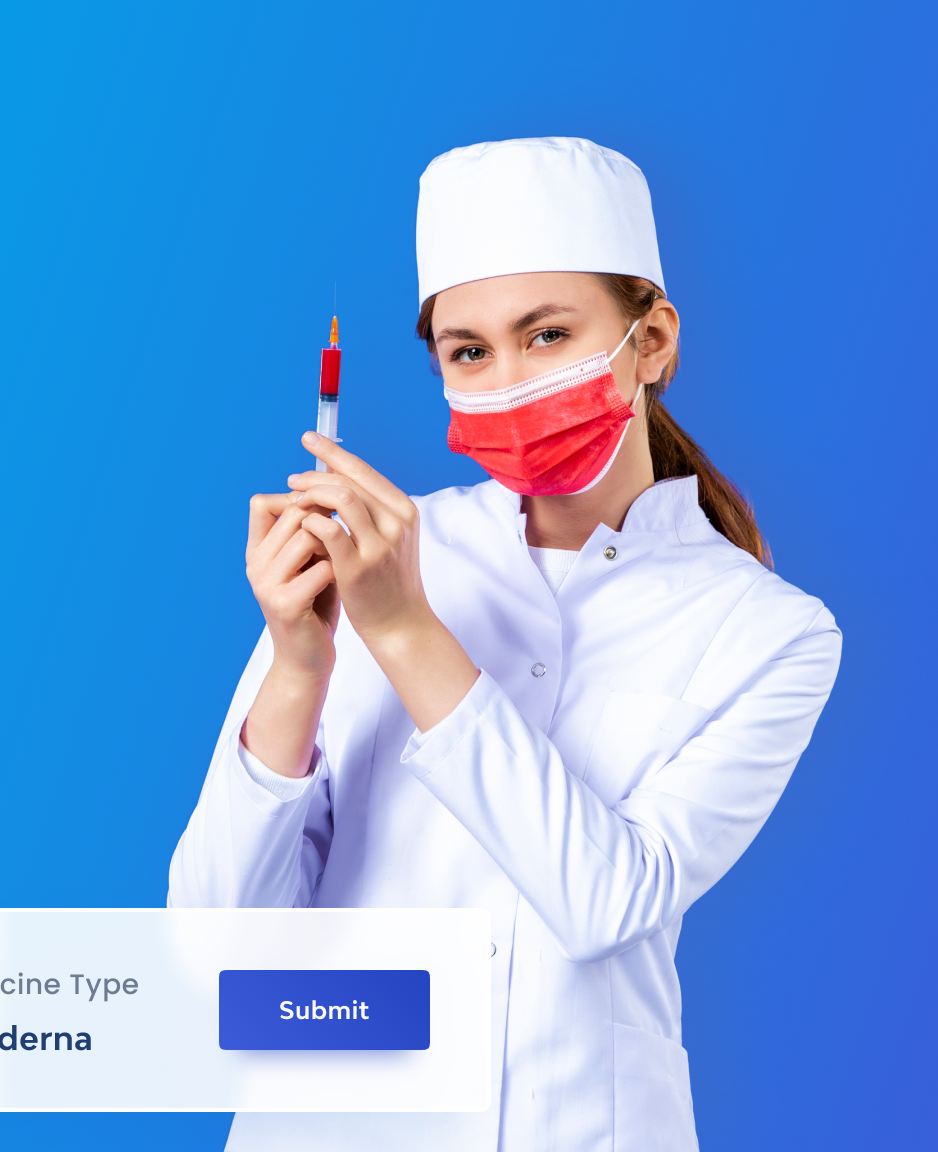
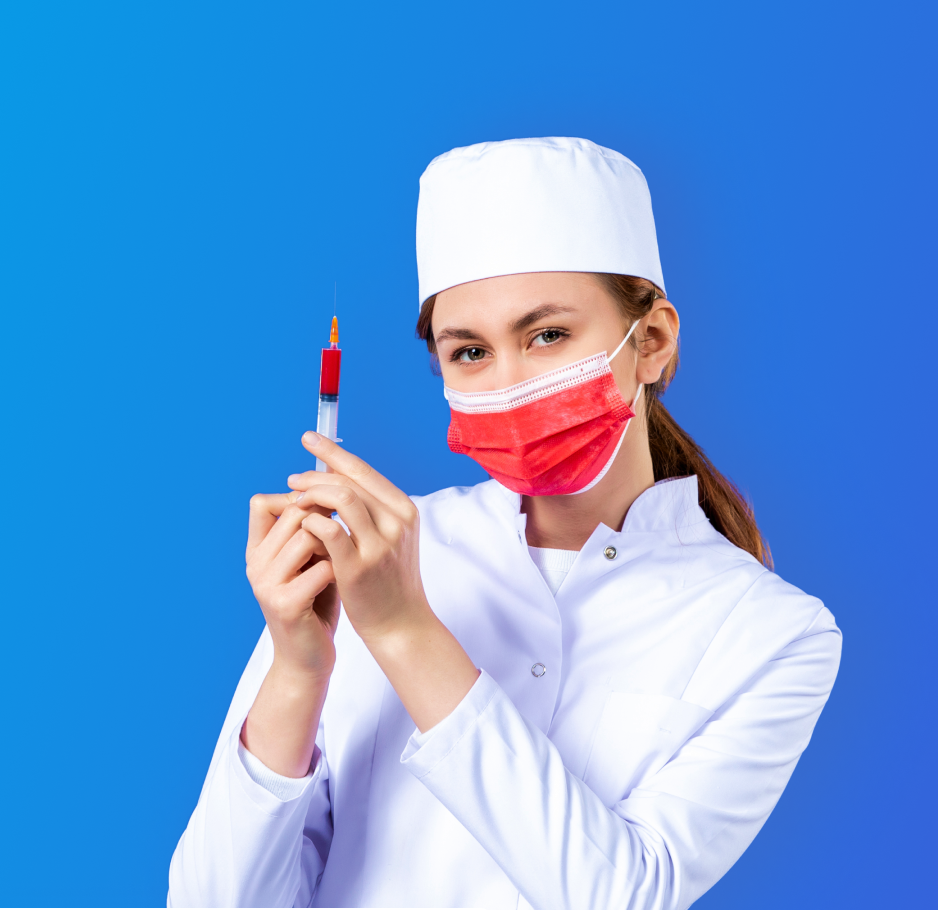
add: location-bar update

diff --git a/semana-3-CSS/index.html b/semana-3-CSS/index.html
@@ -18,7 +18,7 @@
                 <a class="nav-links" href="null">Education</a>
                 <a class="nav-links" href="null">News</a>
                 <a class="nav-links" href="null">Regulation</a>
-                <button id="blue-button">Hoax Buster</button>
+                <button class="blue-button">Hoax Buster</button>
             </nav>
         </div>
     </header>
@@ -26,15 +26,19 @@
         <div>
             <img src="./images/location.PNG" alt="">
             <h4>Location</h4>
+            <h3>Jakarta Utara</h3>
         </div>
         <div>
             <img src="./images/date.PNG" alt="">
-            <h4>08 July 2022</h4>
+            <h4>Date</h4>
+            <h3>08 July 2022</h3>
         </div>
         <div>
             <img src="./images/vaccine.PNG" alt="">
-            <h4>Moderna</h4>
+            <h4>Vaccine type</h4>
+            <h3>Moderna</h3>
         </div>
+        <button class="blue-button">Submit</button>
     </div>
     <div class="container">
         <div class="left-division">

diff --git a/semana-3-CSS/index.css b/semana-3-CSS/index.css
@@ -45,11 +45,15 @@ a.nav-links {
     text-decoration: solid;
 }
 
-h2, h3, h4 {
+h2, h3 {
     color: var(--dark-blue);
 }
 
-#blue-button {
+h4 {
+    color: var(--gray);
+}
+
+.blue-button {
     background-color: var(--button_color);
     color: aliceblue;
     border: 0;
@@ -83,11 +87,12 @@ h2, h3, h4 {
     /* display: flex;
     justify-content: space-around;
     align-content: center; */
-    bottom: -310px;
+    bottom: -10px;
+    left: 50px;
     height: 150px;
     display: flex;
     justify-content: space-around;
-    align-content: center;
+    align-items: center;
     background-color: rgb(255, 255, 255, .8);
     border-radius: 10px 10px;
     box-shadow: 5px 15px 25px 3px #888888;
